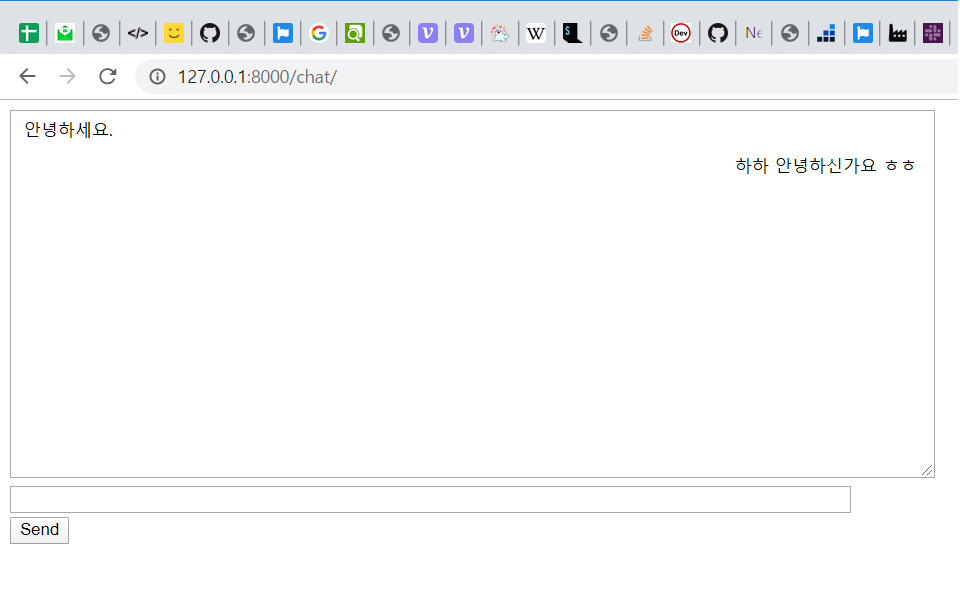
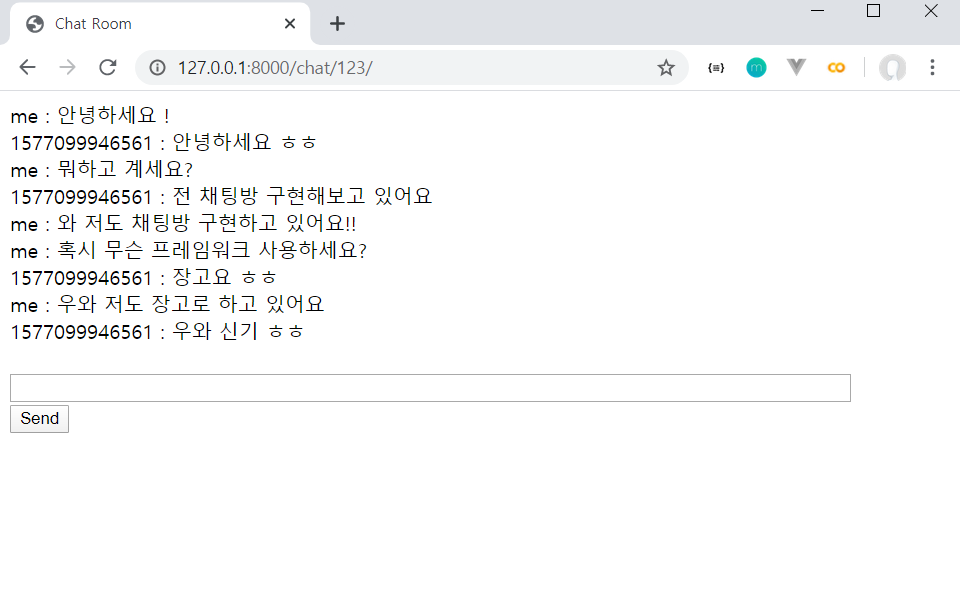
update django_chat | 191223

diff --git a/day03_django/chat/templates/chat/room.html b/day03_django/chat/templates/chat/room.html
@@ -5,13 +5,18 @@
     <title>Chat Room</title>
 </head>
 <body>
-    <textarea id="chat-log" cols="100" rows="20"></textarea><br/>
+    <div id="chat-log" cols="100" rows="20"></div><br/>
     <input id="chat-message-input" type="text" size="100"/><br/>
     <input id="chat-message-submit" type="button" value="Send"/>
 </body>
 <script>
-    var roomName = {{ room_name_json }};
 
+    localStorage.setItem('id', Date.now())
+    var id = localStorage.getItem('id')
+    console.log(id)
+
+    var roomName = {{ room_name_json }};
+    
     var chatSocket = new WebSocket(
         'ws://' + window.location.host +
         '/ws/chat/' + roomName + '/');
@@ -19,8 +24,13 @@
     chatSocket.onmessage = function(e) {
         var data = JSON.parse(e.data);
         var message = data['message'];
-        console.log(self.username);
-        document.querySelector('#chat-log').value += (message + '\n');
+        console.log(e);
+        var sender = JSON.parse(e.data).sender
+        console.log(JSON.parse(e.data).sender)
+        if (id == sender) {
+            document.querySelector('#chat-log').innerText += ('me' + ' : ' + message + '\n');
+        } else {
+        document.querySelector('#chat-log').innerText += (sender+' : ' + message + '\n');};
     };
 
     document.querySelector('#chat-message-input').focus();
@@ -31,13 +41,16 @@
     };
 
     document.querySelector('#chat-message-submit').onclick = function(e) {
+        isMe = true;
         var messageInputDom = document.querySelector('#chat-message-input');
         var message = messageInputDom.value;
         chatSocket.send(JSON.stringify({
-            'message': message
+            'message': message,
+            'id': id,
         }));
 
         messageInputDom.value = '';
+        isMe = false;
     };
 </script>
 </html>

diff --git a/day03_django/chat/consumers.py b/day03_django/chat/consumers.py
@@ -27,21 +27,24 @@ class ChatConsumer(AsyncWebsocketConsumer):
     async def receive(self, text_data):
         text_data_json = json.loads(text_data)
         message = text_data_json['message']
+        sender = text_data_json['id']
 
         # Send message to room group
         await self.channel_layer.group_send(
             self.room_group_name,
             {
                 'type': 'chat_message',
-                'message': message
+                'message': message,
+                'sender': sender,
             }
         )
 
     # Receive message from room group
     async def chat_message(self, event):
         message = event['message']
-
+        sender = event['sender']
         # Send message to WebSocket
         await self.send(text_data=json.dumps({
-            'message': message
+            'message': message,
+            'sender': sender,
         }))
